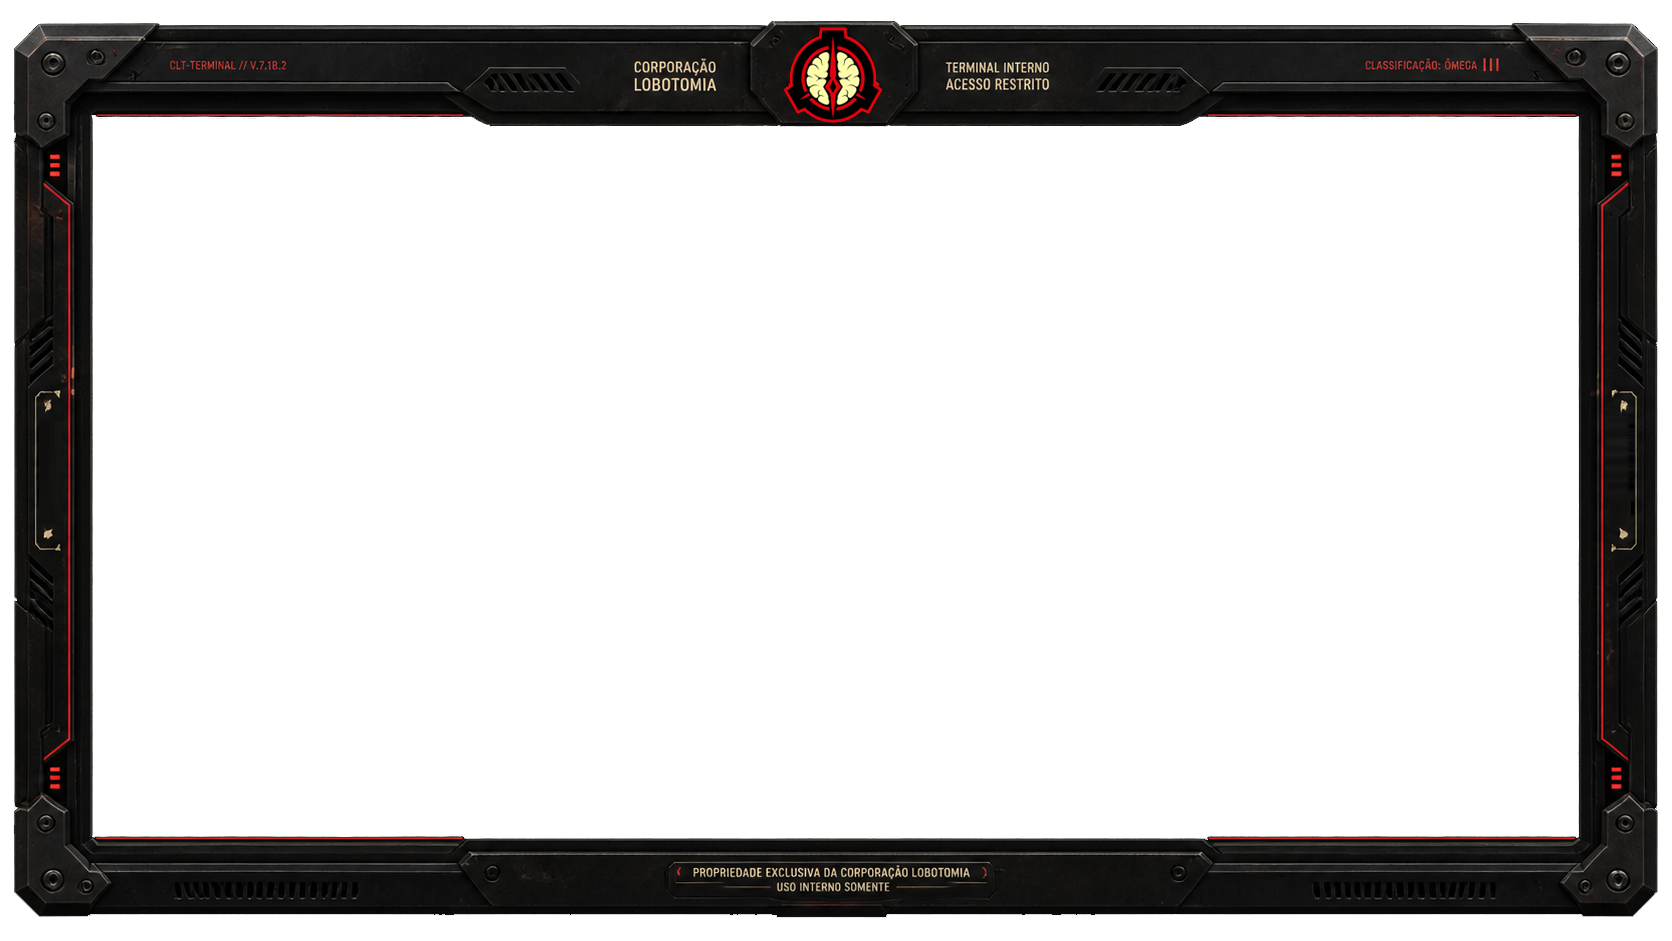
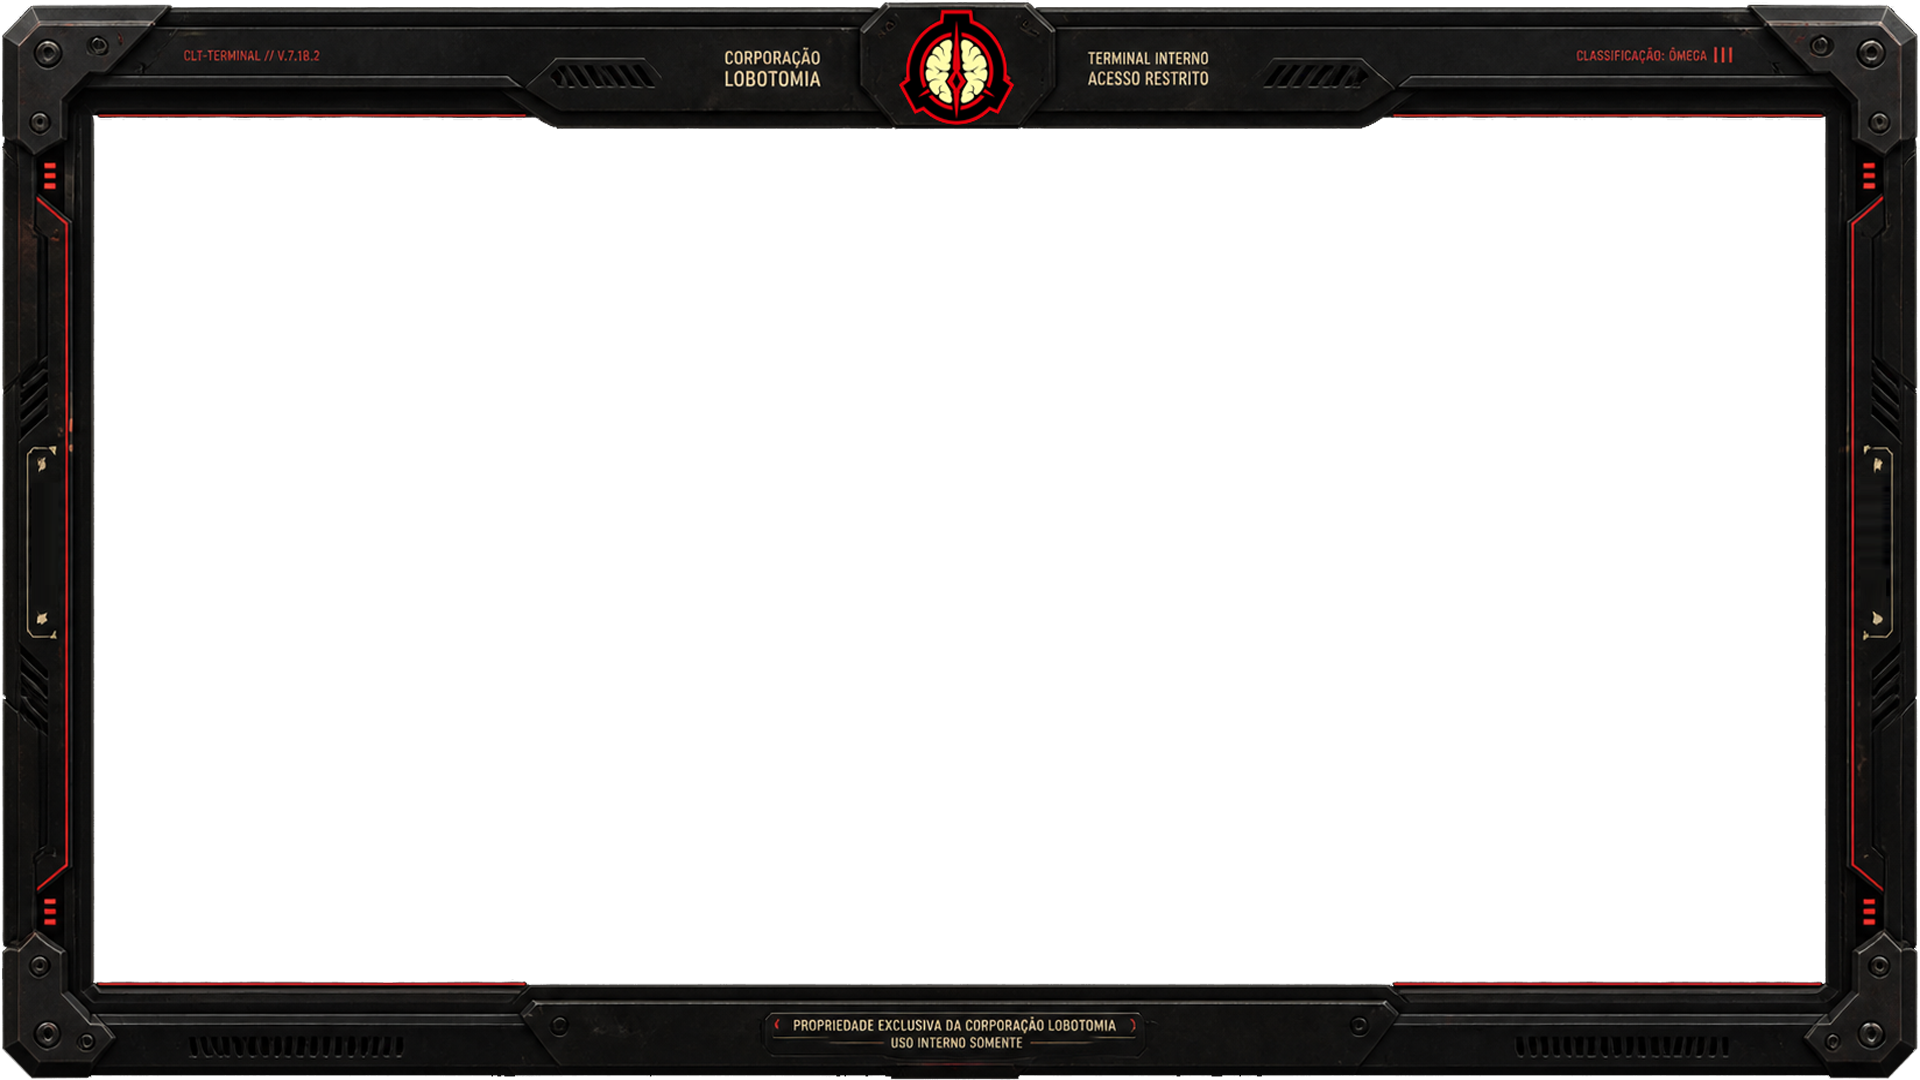
ajeitestablet

Changed region(s): [[0.0, 0.0, 1.0, 1.0]]

diff --git a/src/index.css b/src/index.css
@@ -165,16 +165,16 @@
 }
 
 :root {
-  --tablet-image-width: 1672;
-  --tablet-image-height: 941;
-  --tablet-art-left: 12;
-  --tablet-art-top: 19;
-  --tablet-art-width: 1648;
-  --tablet-art-height: 899;
-  --tablet-screen-left: 81;
-  --tablet-screen-top: 108;
-  --tablet-screen-width: 1485;
-  --tablet-screen-height: 711;
+  --tablet-image-width: 1920;
+  --tablet-image-height: 1080;
+  --tablet-art-left: 0;
+  --tablet-art-top: 0;
+  --tablet-art-width: 1920;
+  --tablet-art-height: 1080;
+  --tablet-screen-left: 95;
+  --tablet-screen-top: 130;
+  --tablet-screen-width: 1730;
+  --tablet-screen-height: 851;
 }
 
 .tablet-frame-shell {
@@ -227,12 +227,12 @@
 
 .tablet-frame-image {
   position: absolute;
-  left: -0.7282%;
-  top: -2.1135%;
-  width: 101.4563%;
-  height: 104.6730%;
+  left: 0;
+  top: 0;
+  width: 100%;
+  height: 100%;
   z-index: 3;
-  object-fit: fill;
+  object-fit: contain;
   pointer-events: none;
   user-select: none;
   filter: drop-shadow(0 20px 40px rgba(0, 0, 0, 0.55));